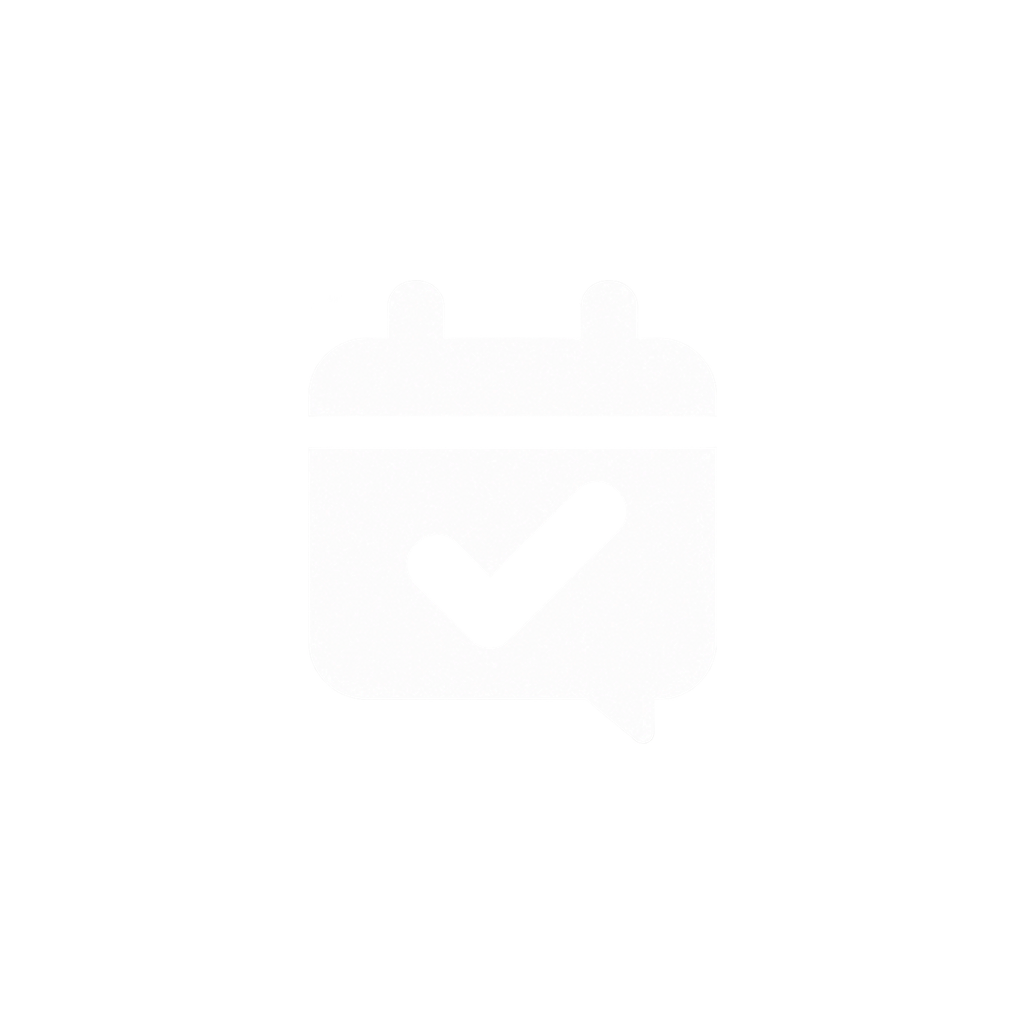
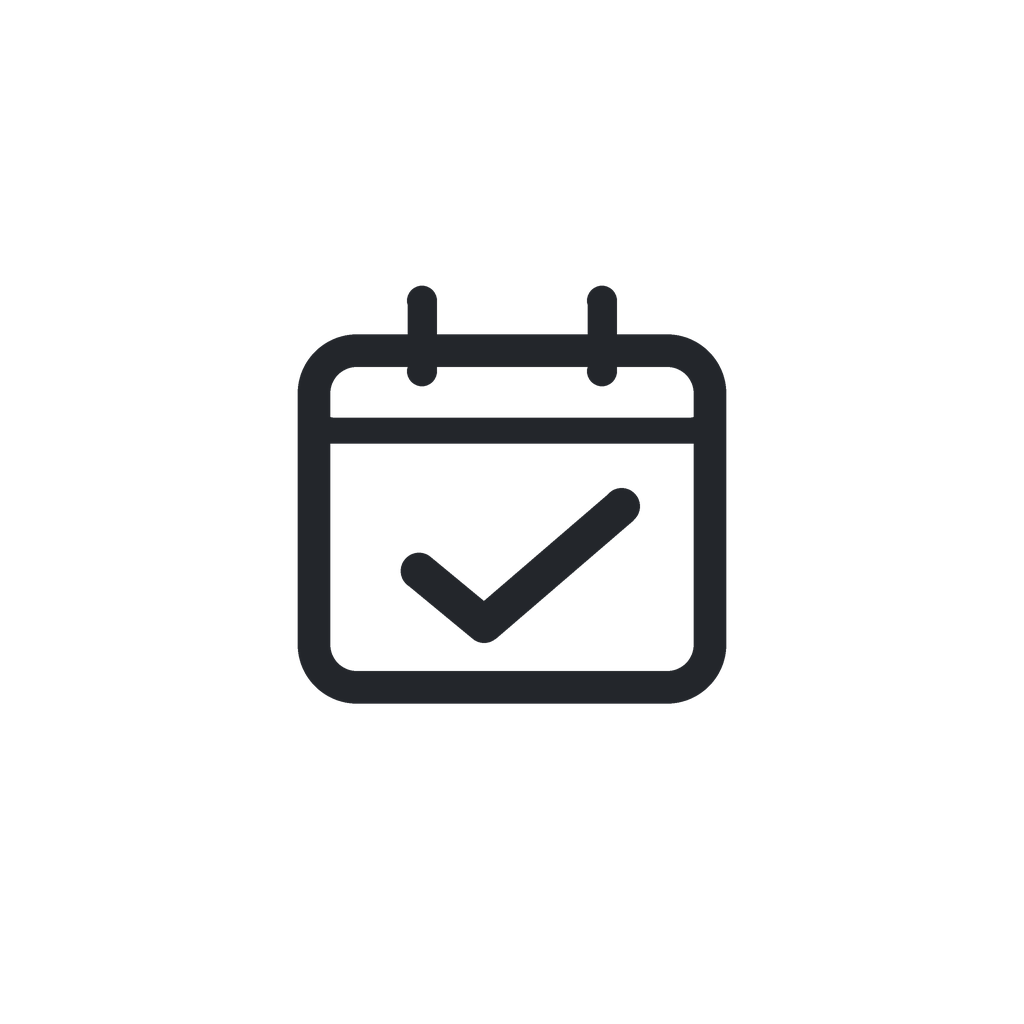
design: Mono Office 10-B monochrome brand and illustration assets

Changed region(s): [[0.2812, 0.2812, 0.7188, 0.6875], [0.375, 0.4688, 0.625, 0.625]]

diff --git a/src/components/ui/ScreenIntro.tsx b/src/components/ui/ScreenIntro.tsx
@@ -4,12 +4,13 @@ import { Image, type ImageSourcePropType, StyleSheet, Text, View } from 'react-n
 import { useTheme } from '@/src/contexts/ThemeContext';
 import { uiRadii, uiSizes, uiSpacing, uiTypography } from '@/src/lib/designTokens';
 
-export function ScreenIntro({ eyebrow, title, description, artwork, graphicIcon, compact = false, featured = false }: {
+export function ScreenIntro({ eyebrow, title, description, artwork, graphicIcon, monochromeArtwork = false, compact = false, featured = false }: {
   eyebrow?: string;
   title: string;
   description?: string;
   artwork?: ImageSourcePropType;
   graphicIcon?: React.ComponentProps<typeof Ionicons>['name'];
+  monochromeArtwork?: boolean;
   compact?: boolean;
   featured?: boolean;
 }) {
@@ -25,6 +26,13 @@ export function ScreenIntro({ eyebrow, title, description, artwork, graphicIcon,
         <View style={[styles.flatGraphic, featured && styles.featuredGraphic]} accessible={false}>
           <Ionicons name={graphicIcon} size={featured ? 48 : 32} color={colors.primary} />
         </View>
+      ) : artwork && !compact && monochromeArtwork ? (
+        <Image
+          source={artwork}
+          style={[styles.artwork, featured && styles.featuredArtwork, { tintColor: colors.primary }]}
+          resizeMode="contain"
+          accessible={false}
+        />
       ) : artwork && !compact && !isDark ? (
         <Image source={artwork} style={[styles.artwork, featured && styles.featuredArtwork]} resizeMode={featured ? "contain" : "cover"} accessible={false} />
       ) : null}

diff --git a/modules/push-office-native/android/src/main/java/expo/modules/pushoffice/QuickEntryActivity.kt b/modules/push-office-native/android/src/main/java/expo/modules/pushoffice/QuickEntryActivity.kt
@@ -169,8 +169,8 @@ class QuickEntryActivity : Activity() {
       setOnClickListener { finish() }
     },LinearLayout.LayoutParams(dp(48),dp(48)))
     root.addView(heading)
-    if (!isDark) root.addView(ImageView(this).apply {
-      setImageResource(R.drawable.quick_entry_illustration)
+    root.addView(ImageView(this).apply {
+      setImageResource(R.drawable.quick_entry_mono)
       scaleType=ImageView.ScaleType.FIT_CENTER
       importantForAccessibility=View.IMPORTANT_FOR_ACCESSIBILITY_NO
     },LinearLayout.LayoutParams(dp(140),dp(106)).apply {

diff --git a/app/(auth)/sign-in.tsx b/app/(auth)/sign-in.tsx
@@ -13,8 +13,8 @@ export default function SignInScreen() {
     <SafeAreaView style={[styles.container, { backgroundColor: colors.background }]}>
       <View style={styles.content}>
         <Image
-          source={require('@/assets/images/push-office-icon.png')}
-          style={styles.logo}
+          source={require('@/assets/images/push-office-mark.png')}
+          style={[styles.logo, { tintColor: colors.primary }]}
           resizeMode="contain"
           accessibilityLabel="Push Office 앱 아이콘"
         />

diff --git a/app/(tabs)/index.tsx b/app/(tabs)/index.tsx
@@ -116,7 +116,8 @@ export default function HomeScreen() {
           eyebrow={dayjs(now).format('M월 D일 dddd')}
           title={new Date(now).getHours() < 12 ? '좋은 아침이에요' : '오늘도 차근차근'}
           description="중요한 일정부터 하나씩 살펴보세요."
-          graphicIcon="calendar-outline"
+          artwork={require("@/assets/images/illustration-home-mono.png")}
+          monochromeArtwork
           featured
         />
 

diff --git a/src/components/ui/AppBrandHeader.tsx b/src/components/ui/AppBrandHeader.tsx
@@ -11,8 +11,8 @@ export function AppBrandHeader() {
   return (
     <View style={styles.brand} accessible accessibilityRole="header" accessibilityLabel="Push Office">
       <Image
-        source={require('@/assets/images/push-office-icon.png')}
-        style={styles.logo}
+        source={require('@/assets/images/push-office-mark.png')}
+        style={[styles.logo, { tintColor: colors.primary }]}
         resizeMode="contain"
         accessible={false}
       />

diff --git a/tools/generate_mono_office_assets.py b/tools/generate_mono_office_assets.py
@@ -1,0 +1,156 @@
+#!/usr/bin/env python3
+"""Generate reproducible monochrome Push Office PNG assets (no SVG or font dependencies).
+
+The flat calendar/check and interface symbols follow the Mono Office 10-B design.
+Replaces only app-side assets and creates a separate Play Store candidate.
+"""
+from __future__ import annotations
+
+import argparse
+from pathlib import Path
+from PIL import Image, ImageDraw
+
+LIGHT = '#F7F8FA'
+DARK = '#111315'
+CHARCOAL = '#23262B'
+SNOW = '#E7E9EC'
+
+
+def icon_canvas(size: tuple[int, int], background: str | None) -> tuple[Image.Image, ImageDraw.ImageDraw]:
+    scale = 3
+    bg = background if background else (0, 0, 0, 0)
+    image = Image.new('RGBA', (size[0] * scale, size[1] * scale), bg)
+    return image, ImageDraw.Draw(image)
+
+
+def smooth(im: Image.Image, size: tuple[int, int]) -> Image.Image:
+    return im.resize(size, Image.Resampling.LANCZOS)
+
+
+def line(d: ImageDraw.ImageDraw, pts, color, w, scale):
+    p = [(round(x * scale), round(y * scale)) for x, y in pts]
+    d.line(p, fill=color, width=round(w * scale), joint='curve')
+    r = w * scale / 2
+    for x, y in (p[0], p[-1]):
+        d.ellipse((int(x-r), int(y-r), int(x+r), int(y+r)), fill=color)
+
+
+def calendar(d, x, y, w, h, color, scale, mode='check'):
+    sw = w * .058
+    d.rounded_rectangle((int((x+.12*w)*scale), int((y+.185*h)*scale),
+                         int((x+.88*w)*scale), int((y+.84*h)*scale)),
+                        radius=int(w*.105*scale), outline=color, width=round(sw*scale))
+    line(d, [(x+.175*w,y+.355*h),(x+.825*w,y+.355*h)],color,sw*.8,scale)
+    for pos in (.34,.66):
+        line(d, [(x+pos*w,y+.125*h),(x+pos*w,y+.25*h)],color,sw*.9,scale)
+    if mode=='check':
+        line(d,[(x+.335*w,y+.605*h),(x+.45*w,y+.70*h),(x+.695*w,y+.49*h)],color,sw*1.12,scale)
+    elif mode=='grid':
+        for row in range(2):
+            for col in range(3):
+                cx = (x+(.325+col*.175)*w)*scale
+                cy = (y+(.5+row*.17)*h)*scale
+                rr=w*.028*scale
+                d.rounded_rectangle((int(cx-rr),int(cy-rr),int(cx+rr),int(cy+rr)),radius=round(rr*.3),fill=color)
+
+
+def bell(d,x,y,w,h,color,scale):
+    stroke = w*.056
+    # bell dome + shoulders + base and clapper
+    line(d,[(x+.21*w,y+.70*h),(x+.31*w,y+.58*h),(x+.31*w,y+.43*h)],color,stroke,scale)
+    d.arc((int((x+.31*w)*scale),int((y+.20*h)*scale),int((x+.69*w)*scale),int((y+.67*h)*scale)),180,360,fill=color,width=int(stroke*scale))
+    line(d,[(x+.69*w,y+.43*h),(x+.69*w,y+.58*h),(x+.79*w,y+.70*h),(x+.21*w,y+.70*h)],color,stroke,scale)
+    d.arc((int((x+.425*w)*scale),int((y+.66*h)*scale),int((x+.575*w)*scale),int((y+.83*h)*scale)),0,180,fill=color,width=int(stroke*scale))
+
+
+def settings(d,x,y,w,h,color,scale):
+    import math
+    cx,cy=x+w/2,y+h/2
+    points=[]
+    for i in range(32):
+        a=-math.pi/2+math.pi*i/16
+        # Eight wide teeth, clean gear shape
+        phase=i%4
+        rr=.345*w if phase in (0,1) else .265*w
+        points.append((int((cx+rr*math.cos(a))*scale),int((cy+rr*math.sin(a))*scale)))
+    d.line(points+[points[0]],fill=color,width=round(.046*w*scale),joint='curve')
+    r=.12*w*scale
+    d.ellipse((int(cx*scale-r),int(cy*scale-r),int(cx*scale+r),int(cy*scale+r)),outline=color,width=round(.047*w*scale))
+
+
+def pencil(d,x,y,w,h,color,scale):
+    line(d,[(x+.30*w,y+.75*h),(x+.67*w,y+.38*h)],color,w*.070,scale)
+    line(d,[(x+.63*w,y+.34*h),(x+.71*w,y+.42*h)],color,w*.045,scale)
+    line(d,[(x+.25*w,y+.79*h),(x+.30*w,y+.75*h)],color,w*.04,scale)
+
+
+def mic(d,x,y,w,h,color,scale):
+    d.rounded_rectangle((int((x+.40*w)*scale),int((y+.22*h)*scale),int((x+.60*w)*scale),int((y+.60*h)*scale)),radius=round(.09*w*scale),outline=color,width=round(w*.05*scale))
+    d.arc((int((x+.32*w)*scale),int((y+.43*h)*scale),int((x+.68*w)*scale),int((y+.74*h)*scale)),0,180,fill=color,width=round(w*.045*scale))
+    line(d,[(x+.5*w,y+.74*h),(x+.5*w,y+.86*h)],color,w*.047,scale)
+
+
+def draw(kind: str, size: tuple[int,int], color: str, background: str | None=None, padding=.10)->Image.Image:
+    im,d=icon_canvas(size,background)
+    sc=3
+    W,H=size
+    if kind in ('mark','icon','adaptive','splash'):
+        base=min(W,H)
+        factor={'mark':.91,'icon':.76,'adaptive':.55,'splash':.70}[kind]
+        ww=base*factor
+        calendar(d,(W-ww)/2,(H-ww)/2,ww,ww,color,sc,'check')
+    elif kind=='home':
+        size1=min(W*.75,H*.99)
+        calendar(d,(W-size1)/2,(H-size1)/2,size1,size1,color,sc,'check')
+        # calm accent rays, consistent stroke weight
+        line(d,[(W*.795,H*.19),(W*.845,H*.14)],color,W*.022,sc)
+        line(d,[(W*.87,H*.36),(W*.93,H*.36)],color,W*.022,sc)
+    elif kind=='calendar':
+        ww=min(W*.78,H*.99)
+        calendar(d,(W-ww)/2,(H-ww)/2,ww,ww,color,sc,'grid')
+    elif kind=='settings':
+        ww=min(W*.86,H*.96)
+        settings(d,(W-ww)/2,(H-ww)/2,ww,ww,color,sc)
+    elif kind=='notifications':
+        ww=min(W*.83,H*.98)
+        bell(d,(W-ww)/2,(H-ww)/2,ww,ww,color,sc)
+    elif kind=='quick-entry':
+        w=min(W*.58,H*.86)
+        calendar(d,W*.39-w*.5,(H-w)/2,w,w,color,sc,'check')
+        mm=min(W,H)*.33
+        mic(d,W*.055,H*.60,mm,mm,color,sc)
+        pencil(d,W*.61,H*.34,mm*1.48,mm*1.48,color,sc)
+    return smooth(im,size)
+
+
+def main():
+    parser=argparse.ArgumentParser()
+    parser.add_argument('--root',type=Path,default=Path(__file__).resolve().parents[1])
+    args=parser.parse_args()
+    root=args.root
+    out={
+      'assets/images/push-office-mark.png':draw('mark',(512,512),CHARCOAL),
+      'assets/images/push-office-icon.png':draw('icon',(1024,1024),CHARCOAL,LIGHT),
+      'assets/images/push-office-icon-dark.png':draw('icon',(1024,1024),SNOW,DARK),
+      'assets/images/push-office-store-icon.png':draw('icon',(512,512),CHARCOAL,LIGHT),
+      'assets/images/push-office-adaptive-foreground.png':draw('adaptive',(1024,1024),CHARCOAL),
+      'assets/images/push-office-adaptive-monochrome.png':draw('adaptive',(1024,1024),'#FFFFFF'),
+      'assets/images/push-office-splash.png':draw('splash',(1024,1024),CHARCOAL),
+      'assets/images/push-office-splash-dark.png':draw('splash',(1024,1024),SNOW),
+      'assets/images/push-office-favicon.png':draw('icon',(64,64),CHARCOAL,LIGHT),
+      'assets/images/illustration-home-mono.png':draw('home',(448,336),CHARCOAL),
+      'assets/images/illustration-calendar-mono.png':draw('calendar',(448,336),CHARCOAL),
+      'assets/images/illustration-settings-mono.png':draw('settings',(448,336),CHARCOAL),
+      'assets/images/illustration-notifications-mono.png':draw('notifications',(448,336),CHARCOAL),
+      'assets/images/illustration-quick-entry-mono.png':draw('quick-entry',(448,336),CHARCOAL),
+      'modules/push-office-native/android/src/main/res/drawable-nodpi/quick_entry_mono.png':draw('quick-entry',(560,424),CHARCOAL),
+      'modules/push-office-native/android/src/main/res/drawable-night/quick_entry_mono.png':draw('quick-entry',(560,424),SNOW),
+      'store-assets/ko-KR/app-icon-10b-candidate.png':draw('icon',(512,512),CHARCOAL,LIGHT),
+    }
+    for name,im in out.items():
+        dest=root/name
+        dest.parent.mkdir(parents=True,exist_ok=True)
+        im.save(dest,optimize=True,compress_level=9)
+        print(f'{name} {im.size} {dest.stat().st_size} bytes')
+
+if __name__=='__main__':main()

diff --git a/docs/design/mono-office-stage10b-20261108.md b/docs/design/mono-office-stage10b-20261108.md
@@ -1,26 +1,24 @@
-# Push Office — Mono Office 10-B (1차): 홈 일러스트 경량화
+# Push Office — Mono Office 10-B 브랜드마크·평면 일러스트 리디자인
 
-기준: 2026-11-08 / 브랜치 `feature/pushoffice-mono-office-10a-colors-20261108`
+기준일: 2026-11-08. 기획: [Google Drive Mono Office 10-A~10-F](https://docs.google.com/document/d/1T5X0QDswTEjC2FrUzWmmHjzPfaRjmUHsgni8a_TKa24/edit).
 
-## 검증 완료된 선행 작업 — 10-A
-- 기준 SHA: `14f21af1f3f6f654f886734fc3d7b5b5b5e0a042`.
-- React Native, TypeScript, ESLint, Expo Android export, Kotlin 단위/Debug APK: [Actions #42482487806](https://github.com/hebi10/pushOffice_app/actions/runs/42482487806) 성공.
-- Android 에뮬레이터 UI 57장, 필수 화면 누락 0건, UI 검증 경고 0건: [Actions #42482487800](https://github.com/hebi10/pushOffice_app/actions/runs/42482487800).
[1 lines of base64/hex data omitted]
-- 실제 물리 단말에서의 위젯 클릭·Gemini Nano 모델·권한은 검증 완료로 기록하지 않습니다.
+## 작업 내용
+- 기존 달력·체크 브랜드 심벌의 의미를 유지하면서 그림자·그라데이션·입체 광택 없는 평면형 아웃라인으로 재제작했습니다.
+- 라이트 아이콘 배경 `#F7F8FA` / 선 `#23262B`, 다크 아이콘 배경 `#111315` / 선 `#E7E9EC` 기준을 사용합니다.
+- 앱 런처 아이콘, adaptive foreground/monochrome, 스플래시 라이트/다크, favicon, 브랜드 헤더 마크를 10-B 이미지로 교체합니다.
+- 홈 배경 일러스트를 PNG 평면형 달력·체크로 변경하고 `ScreenIntro.monochromeArtwork`에서 `colors.primary`로 틴트해 다크 모드에서도 표시합니다. 기존 `graphicIcon` 및 JPG fallback 동작은 보존합니다.
+- 홈/캘린더/알림/설정/빠른 입력용 통일된 소형 일러스트 5종 준비. 현재 실제 화면에는 홈과 Android 네이티브 빠른 입력 시트에만 적용; 다른 라우트의 UI 구조는 10-D 이후 보정합니다.
+- Android `drawable-nodpi/quick_entry_mono.png` 및 `drawable-night/quick_entry_mono.png`로 빠른 입력 선택 시트의 입체형 JPEG를 교체하고 다크에서 이미지 숨김을 해제합니다.
+- 기존 화면 3탭, 권한·저장·반복·알림·음성·Gemini Nano·위젯 클릭 경로 및 로컬 데이터 로직은 변경하지 않습니다.
+- 기존 배포용 Play 스토어 그래픽 및 스크린샷은 건드리지 않습니다. `store-assets/ko-KR/app-icon-10b-candidate.png`는 검토용 후보이며 Play Console에 업로드하지 않습니다.
 
-## 10-B 1차 적용 범위
-- 홈 `ScreenIntro`의 JPG 일러스트 1개 사용을 중단하고, 기존 Ionicons의 `calendar-outline`을 라이트/다크 테마 `primary` 색상으로 렌더링합니다.
-- 그라데이션·그림자·추가 이미지 생성 없이 플랫 아웃라인으로 표시합니다.
-- `ScreenIntro`의 기존 `artwork` API와 숨김 로직은 보존해 다른 화면에 영향이 없도록 합니다.
-- 기존 상단 로고, 앱 아이콘, 스플래시, Android adaptive 및 Play 아이콘은 **변경하지 않습니다**.
-- 홈 실제 일정·AI·알림 추천·빠른 입력 동작/시간대/저장 로직은 변경하지 않습니다.
-- 10-B 회귀 테스트 신규 추가 및 HOME-01 기존 테스트 최신 스타일로 수정.
+## 생성·검증
+- 재현 가능한 원본 생성 코드: `tools/generate_mono_office_assets.py`. Pillow를 이용한 PNG 래스터 생성으로 별도 SVG·폰트·신규 React Native 의존성을 요구하지 않습니다.
+- `tests/ui-mono-office-stage10b.test.mjs`: 홈·테마·브랜드·네이티브 동작 보존.
+- `tests/ui-mono-office-stage10b-assets.test.mjs`: 파일 수·PNG 헤더·해상도·라이트/다크 분기·패키지/버전 불변 검사.
+- Google Drive [10-B PNG 자산 ZIP](https://drive.google.com/file/d/1-KHZfUie9blYPL1xu3pn4zuZCyNCuWHM/view). PR 및 Android Actions의 커밋 SHA별 QA와 구분.
+- 검증 상태는 GitHub Actions 완료 후 갱신합니다. 자동 빌드 성공과 실제 기기 검증은 별개입니다.
 
-## 10-B 후속 미완료
-- 브랜드 달력/체크 심벌의 실제 픽셀 원본 검토, 신규 평면형 원본 이미지 제작 및 승인.
-- Android adaptive/monochrome, 스플래시 및 Google Play 이미지 교체 여부 최종 결정.
-- 10-C 공통 UI, 10-D 화면 위계, 10-E 네이티브 스타일, 10-F 전체 QA는 아직 미진행.
-
-## 병합·배포 안전 기준
-10-A~10-F 통합 브랜치에서만 계속 작업하고, 최종 검증 전 `main` 병합 및 Play 자동 배포를 하지 않습니다. 기존 테스트 트랙과 브랜드 자산은 보존합니다.
+## 안전 경계
+- `main` 병합 및 Play 내부·비공개 배포 금지. 10-C~10-F 통합 후 사용자 승인/검증에 따라 최종 반영합니다.
+- 기존 `tools/export_brand_assets.py`는 과거 Play 그래픽 익스포트용이므로 실행 시 새 로고 PNG를 덮어쓸 수 있습니다. Mono 최종 스토어 그래픽 갱신 전까지 실행하지 않습니다.
